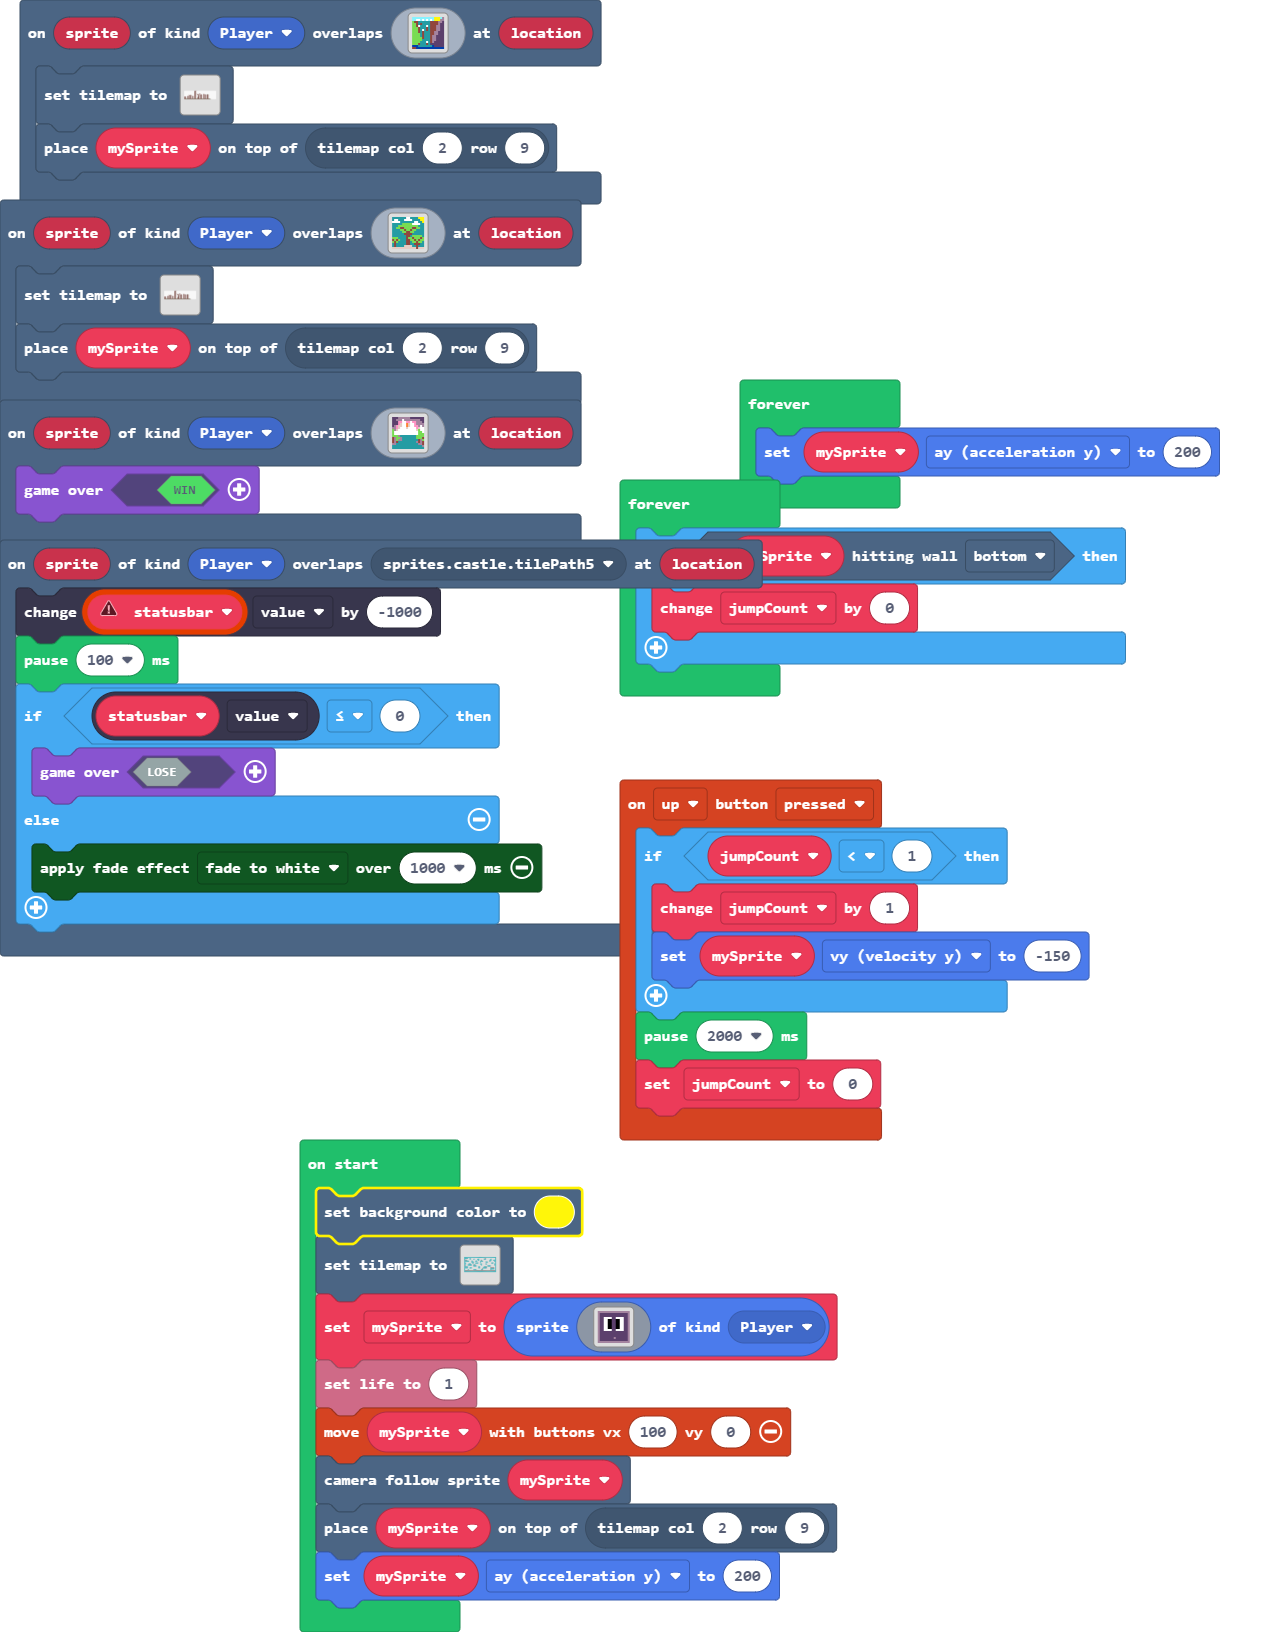
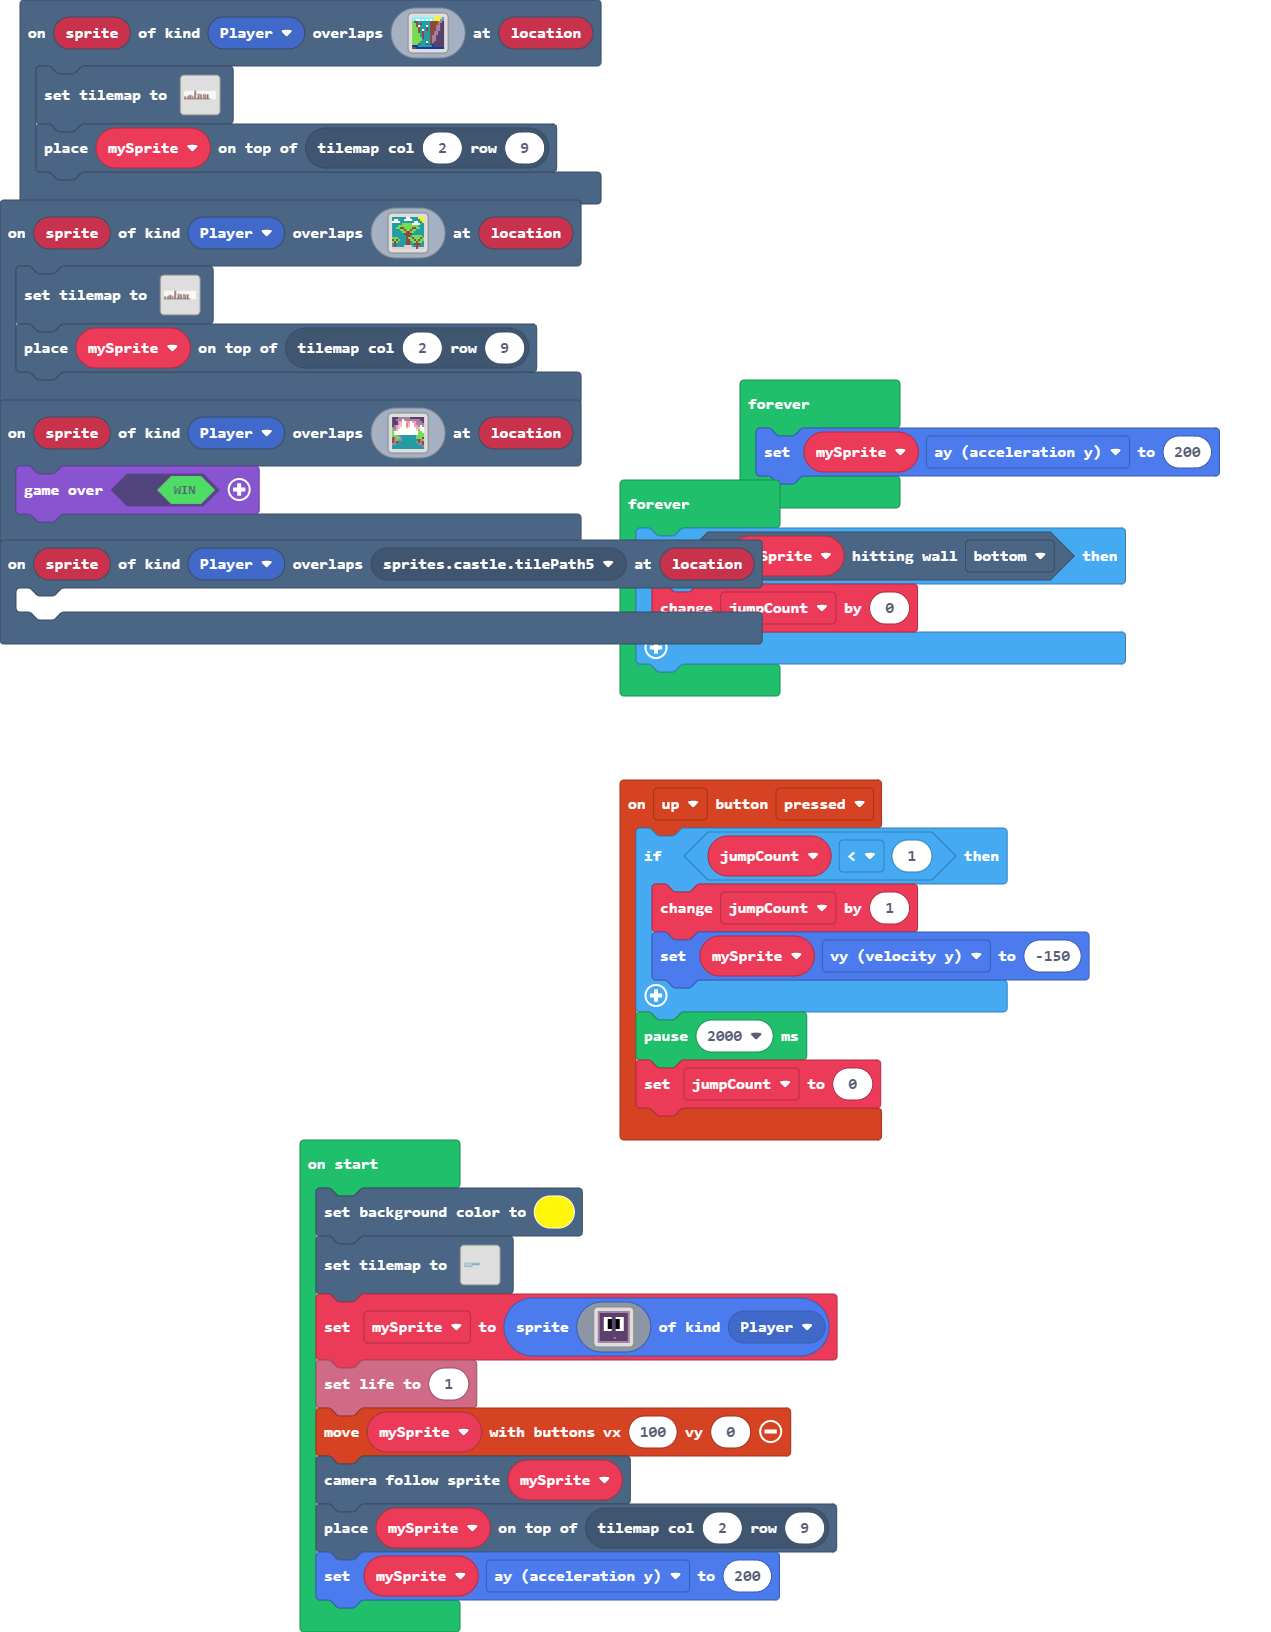
got rid of unused code

diff --git a/main.ts b/main.ts
@@ -11,14 +11,7 @@ scene.onOverlapTile(SpriteKind.Player, assets.image`paintTwo`, function (sprite,
     tiles.placeOnTile(mySprite, tiles.getTileLocation(2, 9))
 })
 scene.onOverlapTile(SpriteKind.Player, sprites.castle.tilePath5, function (sprite, location) {
-    let statusbar: StatusBarSprite = null
-    statusbar.value += -1000
-    pause(100)
-    if (statusbar.value <= 0) {
-        game.over(false)
-    } else {
-        color.FadeToWhite.startScreenEffect(1000)
-    }
+	
 })
 scene.onOverlapTile(SpriteKind.Player, assets.image`paintOne`, function (sprite, location) {
     tiles.setTilemap(tilemap`CityScape2`)
